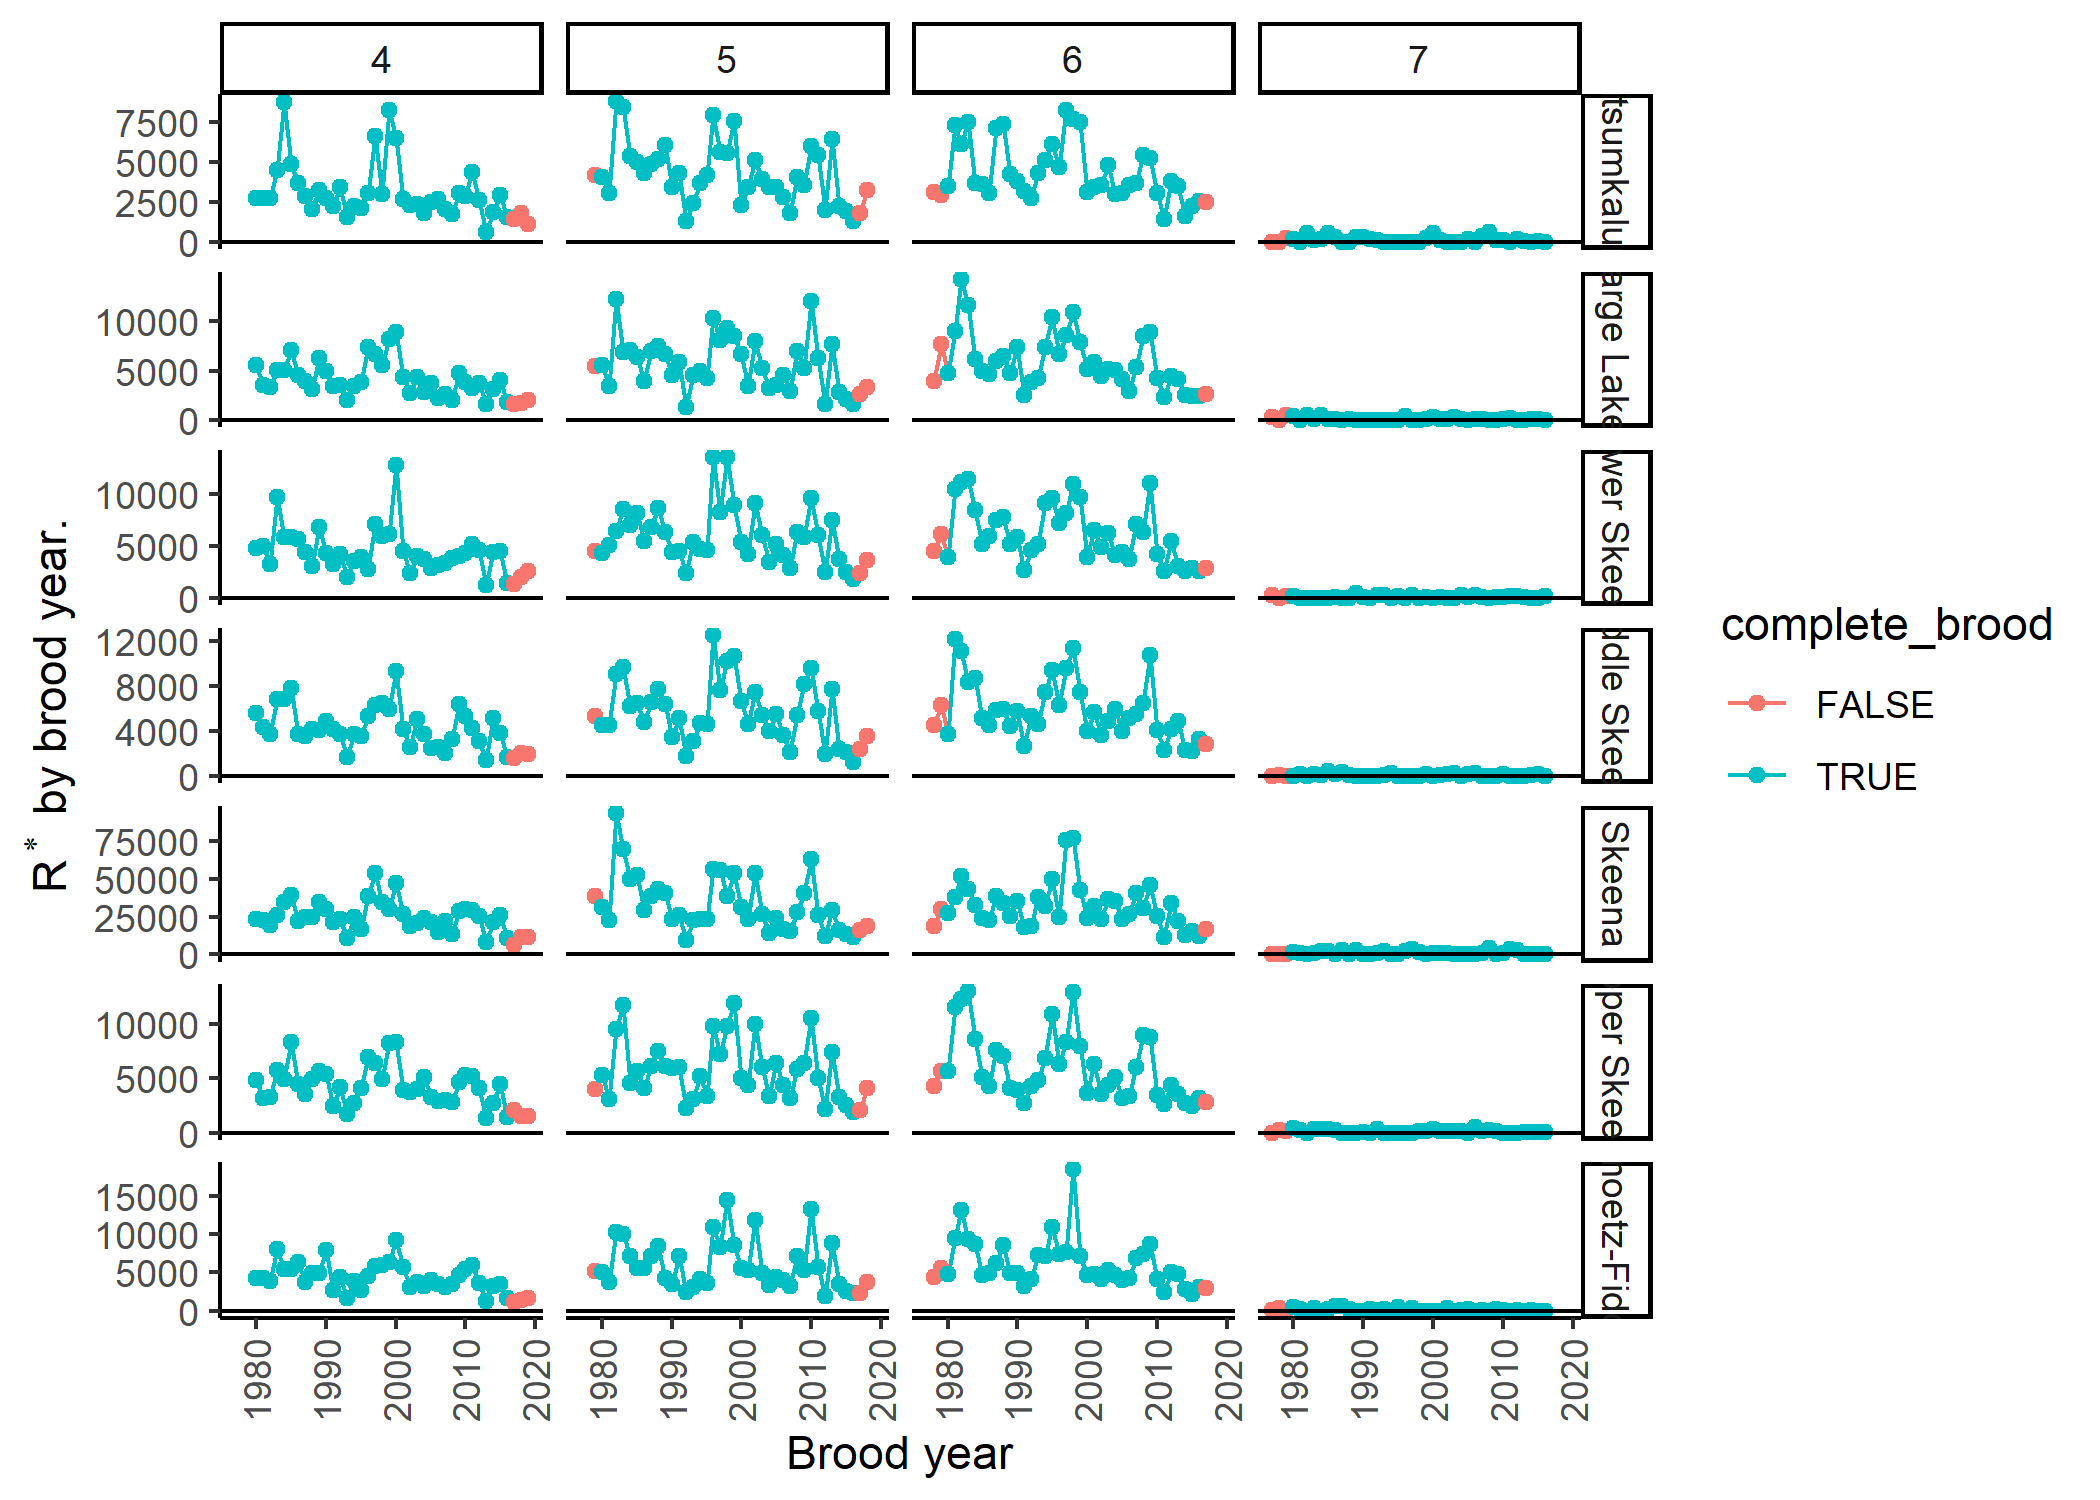
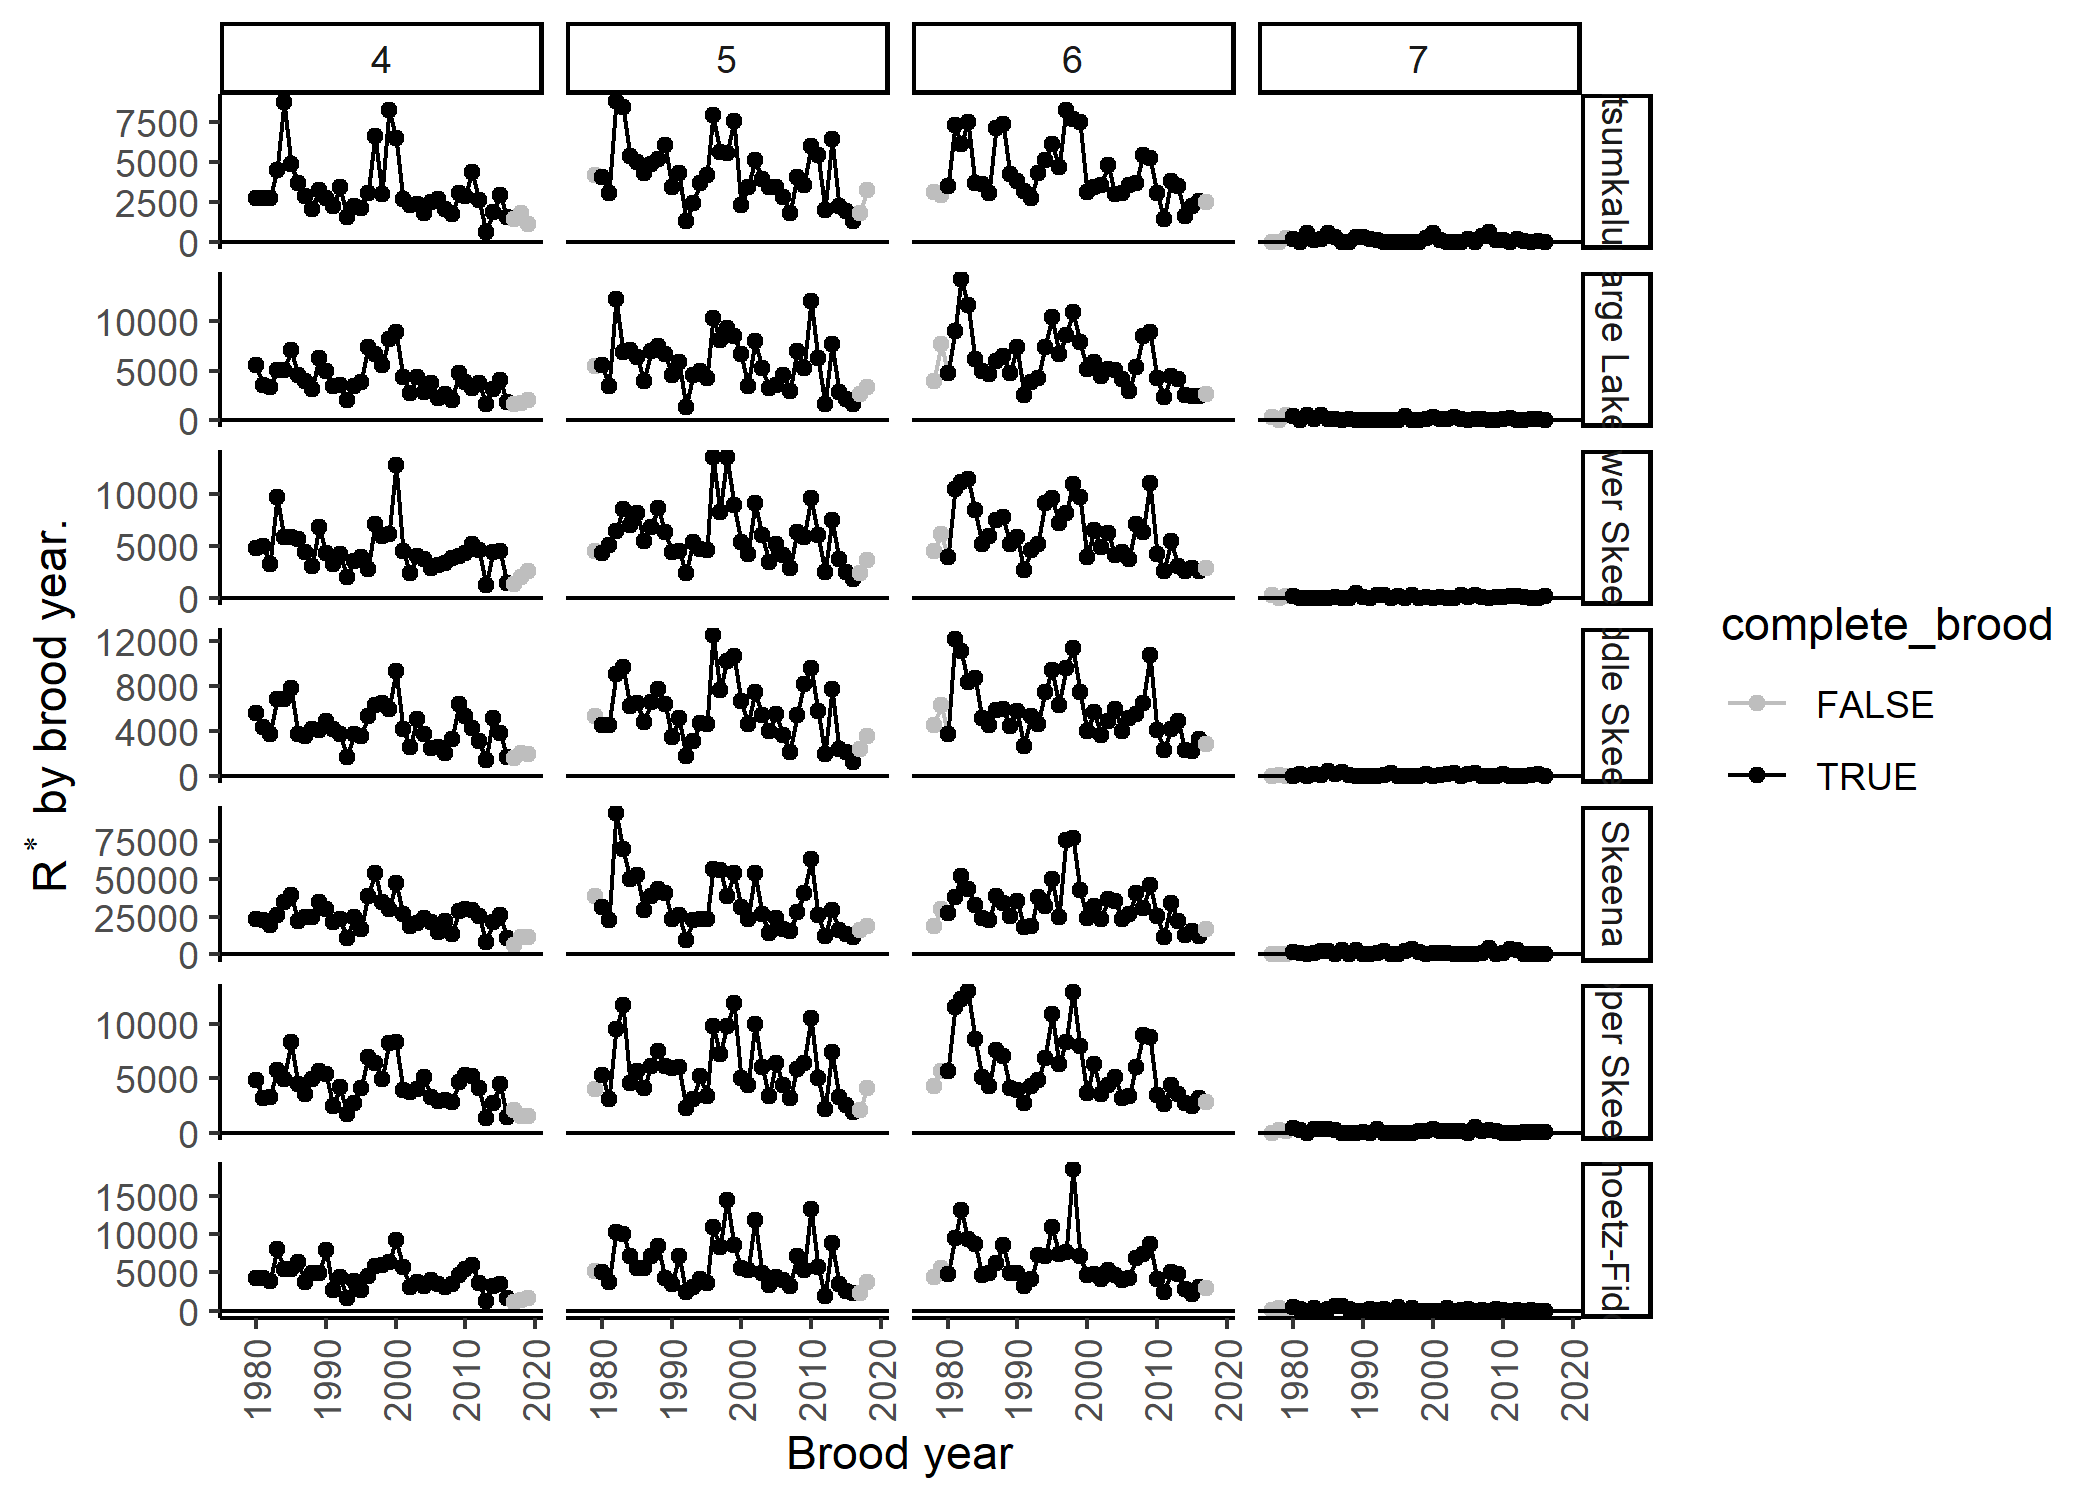
Update colours

diff --git a/README.md b/README.md
@@ -493,6 +493,7 @@ ggplot( R_star$df, aes(y = R_star, x = b, group = i, colour= complete_brood)) +
   xlab("Brood year") +
   ylab(TeX("$R^*$ by brood year.")) +
   facet_grid( i ~ a, scales="free_y") +
+  scale_colour_manual(values = c("gray", "black")) +
   theme_classic() +
   theme(axis.text.x = element_text(angle=90, vjust=0.5))
 ```
@@ -511,6 +512,7 @@ ggplot( R$df, aes(y = R, x = b, group = i, colour = complete_brood)) +
   ylab(TeX("Recruits, $R$")) +
   xlab("Brood year") +
   facet_wrap( ~i , scales="free_y") +
+  scale_colour_manual(values = c("gray", "black")) +
   theme_classic() +
   theme(axis.text.x = element_text(angle=90, vjust=0.5))
 ```
